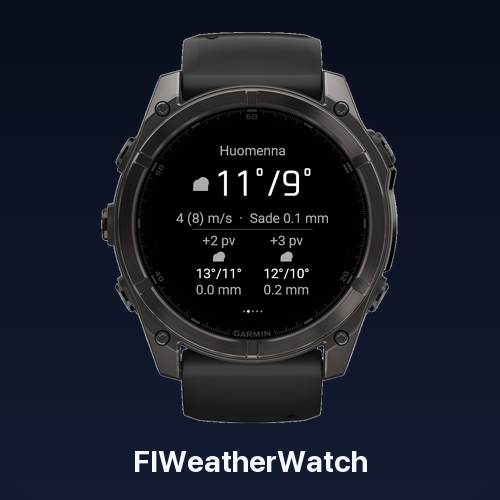
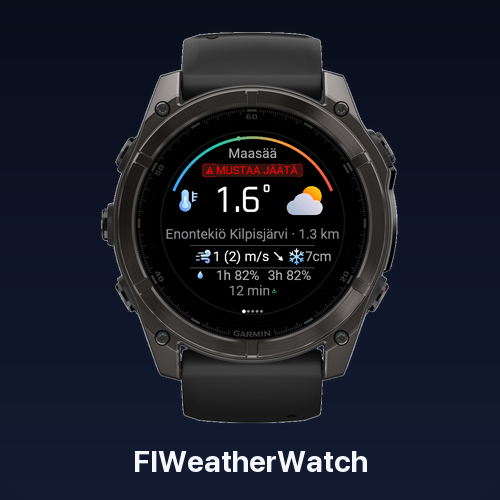
1.2.4: store listing, hero/cover art, and website updated
store-listing.md: drafted the v1.2.4 "What's new" (EN/FI), leading with the
AMOLED graphics tier and snow depth (explicitly sourced from FMI's
weather-station network).

make_store_art.py: hero/cover now read from the Land page (pg1) instead of
Forecast, since v1.2.4's headline feature lives there. Bullets updated to
lead with AMOLED graphics + snow depth. Finnish art keeps its live
black-ice warning; English has none live at capture time.

weatherapp.tallimedia.com (app/public/): version tag bumped to v1.2.4 in
all three languages, hero screenshot and the full "Every screen" gallery
(Land/Forecast/Sea/Waves/glance) swapped to new AMOLED captures. About
page screenshot not refreshed this pass — no fresh capture taken. Synced
site.js down from the live deploy first (it had drifted ahead with
2026-10-30 icon work not yet in git) before editing, so that work isn't
lost. Deployed to production.

Changed region(s): [[0.33, 0.27, 0.69, 0.63]]

diff --git a/app/public/site.js b/app/public/site.js
@@ -4,7 +4,7 @@ STR = {
   fi: {
     heroA:"Suomen sää,", heroB:"maalla ja merellä.",
     lede:"Ennusteet, merituuli ja live-aaltodata — suoraan Ilmatieteen laitoksen omasta avoimesta datasta, ei globaalista mallista. Kaikki alla on live-dataa juuri nyt. Nyt saatavilla Connect IQ -kaupassa.",
-    tagDev:"v1.2.1", tagArea:"Suomi",
+    tagDev:"v1.2.4", tagArea:"Suomi",
     navLive:"Live-data", navWhat:"Ominaisuudet", navData:"Data",
     onLand:"Maalla", onLandSub:"Havainnot ja loppupäivä lähimmältä asemalta.",
     atSea:"Merellä", atSeaSub:"Tuuli merihavaintoasemalta, aallot Ilmatieteen laitoksen poijuilta.",
@@ -65,7 +65,7 @@ STR = {
   sv: {
     heroA:"Finlands väder,", heroB:"på land och till havs.",
     lede:"Prognoser, havsvind och live-vågdata — direkt från Meteorologiska institutets egna öppna data, inte en global modell. Allt nedan är live just nu. Finns nu i Connect IQ Store.",
-    tagDev:"v1.2.1", tagArea:"Finland",
+    tagDev:"v1.2.4", tagArea:"Finland",
     navLive:"Livedata", navWhat:"Funktioner", navData:"Data",
     onLand:"På land", onLandSub:"Observationer och resten av dagen från närmaste station.",
     atSea:"Till havs", atSeaSub:"Vind från en havsstation, vågor från institutets vågbojar.",
@@ -126,7 +126,7 @@ STR = {
   en: {
     heroA:"Finnish weather,", heroB:"land and sea.",
     lede:"Forecasts, marine wind and live wave data — from the Finnish Meteorological Institute's own open data, not a global model. Everything below is live right now. Available now on the Connect IQ Store.",
-    tagDev:"v1.2.1", tagArea:"Finland",
+    tagDev:"v1.2.4", tagArea:"Finland",
     navLive:"Live data", navWhat:"Features", navData:"Data",
     onLand:"On land", onLandSub:"Current conditions and the rest of today, from the nearest reporting station.",
     atSea:"At sea", atSeaSub:"Wind from a Finnish marine station, waves from FMI's wave buoys.",
@@ -238,7 +238,11 @@ function warnLine(level, moderateKey, severeKey) {
   const moderate = level === "moderate" || level === "Moderate";
   if (!severe && !moderate) return "";
   const text = T(severe ? severeKey : moderateKey);
-  return `<p class="warn${severe ? " severe" : ""}">${WARN_ICON}${text}</p>`;
+  // Road warnings get the dedicated icy-road illustration (2026-10-30 data-
+  // metric set) instead of the generic triangle — distinguished by key,
+  // since this function doesn't otherwise know road from sea.
+  const ic = moderateKey === "IcyRoadWarning" ? metricIcon("icy_road", 18) : WARN_ICON;
+  return `<p class="warn${severe ? " severe" : ""}">${ic}${text}</p>`;
 }
 
 /* Evenly-spaced sample of at most `n` items, always including the first and
@@ -316,7 +320,7 @@ async function loadNow(place) {
                 : at(obs, "windspeedms")}</span></div>
           <div>${T("gust")}<b>${fmt(obs.windgust, 1)} m/s</b>
             <span class="at">${at(obs, "windgust")}</span></div>
-          <div>${RAIN_ICON}${T("rain")}<b>${fmt(rainNow, 1)} mm</b>
+          <div>${metricIcon("rain_amount", 14)}${T("rain")}<b>${fmt(rainNow, 1)} mm</b>
             <span class="at">${ahead.length ? localTime(ahead[0].epochtime) : "–"}</span></div>
           <div>${T("humidity")}<b>${fmt(obs.humidity, 0)}%</b>
             <span class="at">${at(obs, "humidity")}</span></div>

diff --git a/app/public/index.html b/app/public/index.html
@@ -298,7 +298,7 @@
         <span id="app-devices"></span></p>
     </div>
     <figure style="margin:0">
-      <img src="/public/shots/pg-fc-v122.png" alt="FIWeatherWatch forecast page on a Garmin fenix"
+      <img src="/public/shots/pg1-amoled-v124.png" alt="FIWeatherWatch Land page, AMOLED graphics, on a Garmin fenix"
            style="width:100%;max-width:340px;display:block;margin:0 auto">
     </figure>
   </div>
@@ -354,15 +354,15 @@
       <span style="flex:1;height:1px;background:color-mix(in srgb,#f5f8fd 26%,transparent)"></span>
     </div>
     <div style="display:grid;grid-template-columns:repeat(auto-fit,minmax(160px,1fr));gap:24px">
-      <figure style="margin:0"><div class="shot-disc"><img src="/public/shots/raw-pg1-v122.png" alt="Land page"></div>
+      <figure style="margin:0"><div class="shot-disc"><img src="/public/shots/raw-pg1-v124.png" alt="Land page, AMOLED graphics, with a live black-ice warning and snow depth"></div>
         <figcaption class="shot-cap" id="cap-land"></figcaption></figure>
-      <figure style="margin:0"><div class="shot-disc"><img src="/public/shots/raw-pg-fc-v122.png" alt="Forecast page"></div>
+      <figure style="margin:0"><div class="shot-disc"><img src="/public/shots/raw-pg-fc-v124.png" alt="Forecast page, AMOLED graphics"></div>
         <figcaption class="shot-cap" id="cap-forecast"></figcaption></figure>
-      <figure style="margin:0"><div class="shot-disc"><img src="/public/shots/raw-pg2.png?v=2" alt="Sea page with a live wind warning"></div>
+      <figure style="margin:0"><div class="shot-disc"><img src="/public/shots/raw-pg2-v124.png" alt="Sea page, AMOLED graphics, with a live wind warning"></div>
         <figcaption class="shot-cap" id="cap-sea"></figcaption></figure>
-      <figure style="margin:0"><div class="shot-disc"><img src="/public/shots/raw-pg3.png?v=2" alt="Waves page with a live wave warning"></div>
+      <figure style="margin:0"><div class="shot-disc"><img src="/public/shots/raw-pg3-v124.png" alt="Waves page, AMOLED graphics, with a live wave warning"></div>
         <figcaption class="shot-cap" id="cap-waves"></figcaption></figure>
-      <figure style="margin:0"><div class="shot-disc"><img src="/public/shots/raw-glance-v122.png" alt="Glance"></div>
+      <figure style="margin:0"><div class="shot-disc"><img src="/public/shots/raw-glance-v124.png" alt="Glance"></div>
         <figcaption class="shot-cap" id="cap-glance"></figcaption></figure>
       <figure style="margin:0"><div class="shot-disc"><img src="/public/shots/raw-pg-about.png?v=2" alt="About page"></div>
         <figcaption class="shot-cap" id="cap-about"></figcaption></figure>

diff --git a/watch/store/make_store_art.py b/watch/store/make_store_art.py
@@ -26,20 +26,24 @@ SHOTS = Path(__file__).resolve().parents[2] / "Screenshots"
 
 # Per-language art. Finnish is the store's primary listing language
 # (store-listing.md), so it gets its own hero/cover with a Finnish capture and
-# translated copy, not a relabelled English one. Both read from the Forecast
-# page since v1.2.0 — the release's headline feature belongs in the store art,
-# not just the gallery, same reasoning that put v1.1.0's live Sea warning
-# here (RESEARCH.md §16 and §27).
+# translated copy, not a relabelled English one. Read from the Land page as
+# of v1.2.4 (was Forecast through v1.2.3) — the release's headline feature
+# belongs in the store art, not just the gallery, same reasoning that put
+# v1.1.0's live Sea warning here (RESEARCH.md §16 and §27); v1.2.4's headline
+# is the AMOLED graphics tier + snow depth, both visible on Land. Finnish
+# capture keeps its live black-ice warning (Nico's call, 2026-11-06) —
+# English has none live at capture time, so it shows the plain page instead
+# of a forced one, in keeping with "a real capture, not a re-staging".
 LANGS = {
     "en": dict(
         hero=HERE / "hero-1440x720.png",
         cover=HERE / "cover-500x500.png",
-        capture=SHOTS / "pg-fc-eng.png",
+        capture=SHOTS / "pg1-amoled-eng-v124.png",
         subtitle=["Finnish weather, land and sea —", "straight from the source."],
         bullets=[
+            "New: richer graphics on AMOLED watches",
+            "New: current snow depth, from FMI's weather-station network",
             "Live observations and a 3-day forecast",
-            "Marine wind from 40 coastal and 14 lake stations",
-            "Wave height and water temperature from FMI buoys",
             "Official FMI warnings on the page they're about",
             "Your own wind, gust and wave limits",
         ],
@@ -51,12 +55,12 @@ LANGS = {
     "fi": dict(
         hero=HERE / "hero-1440x720-fi.png",
         cover=HERE / "cover-500x500-fi.png",
-        capture=SHOTS / "pg-fc-fin.png",
+        capture=SHOTS / "pg1-amoled-v124.png",
         subtitle=["Suomen sää, maalla ja merellä —", "suoraan lähteeltä."],
         bullets=[
+            "Uutta: entistä näyttävämmät grafiikat AMOLED-kelloille",
+            "Uutta: lumensyvyys Ilmatieteen laitoksen sääasemilta",
             "Reaaliaikaiset havainnot ja 3 päivän ennuste",
-            "Merituuli 40 rannikko- ja 14 sisävesiasemalta",
-            "Aallonkorkeus ja veden lämpötila FMI:n poijuilta",
             "Viralliset FMI-varoitukset sillä sivulla, jota ne koskevat",
             "Omat tuuli-, puuska- ja aaltorajasi",
         ],

diff --git a/watch/store-listing.md b/watch/store-listing.md
@@ -122,6 +122,8 @@ Suomen sää, maalla ja merellä.
 
 FIWeatherWatch näyttää sen, mitä Ilmatieteen laitoksen omat mittarit raportoivat juuri nyt.
 
+Jos pidät tästä sääapista, toivon että ehdit antaa sille hyvän arvosanan ja kommentin, kiitos!
+
 MAA
 Lämpötila ja tuuli lähimmältä havaintoasemalta, asema ja sen etäisyys näkyvissä. Sateen todennäköisyys seuraavalle tunnille ja kolmelle tunnille. Jos asemalla ei ole tuulianturia tai lämpömittaria, lukema haetaan lähimmältä asemalta ja merkitään sen mukaan. Liukkaan tien varoitus näkyy samalla sivulla, kun Ilmatieteen laitos sellaisen antaa.
 
@@ -257,11 +259,14 @@ history, newest first. Each paragraph below is deliberately one single unbroken 
 the Store textarea does not re-wrap pasted text, so a hard line break inside a paragraph
 shows up as a forced break. Only the blank lines between versions are real breaks. For
 the next release: write the new version's paragraph and prepend it. Keep each language
-under 4000 characters (these are about 2606 EN / 2700 FI).
+under 4000 characters (these are about 3000 EN / 3098 FI).
 
 ### Paste into Store — English
 
 ```
+v1.2.4
+Richer graphics on AMOLED watches — a gradient temperature gauge, full-colour weather icons and a redesigned Land, Sea, Waves, Forecast and About page; MIP watches keep the existing look unchanged. Added current snow depth to the Land page, from the same FMI weather-station network as the rest of the page's readings, shown whenever a station is actually reporting snow on the ground.
+
 v1.2.3
 Removed support for the Garmin Enduro (original) after finding it could crash on launch; Enduro 3 and Enduro 4 are unaffected. Added support for the Venu X1, Instinct 3 AMOLED (45mm and 50mm), Instinct Crossover AMOLED, Marq 3, D2 Mach 2, D2 Mach 2 Pro and D2 Air X10. Added two Sea stations: Kaskinen Sälgrund and Kotka Haapasaari.
 
@@ -284,6 +289,9 @@ First public release. Land forecast and current conditions from the nearest repo
 ### Paste into Store — Finnish
 
 ```
+v1.2.4
+Entistä näyttävämmät grafiikat AMOLED-kelloille — liukuväriasteikko lämpötilalle, täysvärikuvakkeet ja uudistettu Maa-, Meri-, Aallot-, Ennuste- ja Tietoja-sivu; MIP-kellot säilyttävät nykyisen ulkoasun ennallaan. Maa-sivulle lisätty ajantasainen lumensyvyys samalta Ilmatieteen laitoksen sääasemaverkolta kuin sivun muutkin lukemat, näkyvissä aina kun asema ilmoittaa lunta olevan maassa.
+
 v1.2.3
 Poistettu tuki Garmin Enduro (alkuperäinen) -kellolta, koska sovellus saattoi kaatua sitä käynnistettäessä; Enduro 3 ja Enduro 4 toimivat normaalisti. Tuki lisätty Garmin Venu X1-, Instinct 3 AMOLED (45 mm ja 50 mm)-, Instinct Crossover AMOLED-, Marq 3-, D2 Mach 2-, D2 Mach 2 Pro- ja D2 Air X10 -kelloille. Lisätty kaksi uutta merisääasemaa: Kaskinen Sälgrund ja Kotka Haapasaari.
 
@@ -306,6 +314,35 @@ Ensimmäinen julkinen versio. Ennuste ja nykyhetken sää lähimmältä havainto
 ---
 
 ## Per-version notes (reference — the blocks above are what gets pasted)
+
+## What's new — v1.2.4
+
+**Leads with the AMOLED graphics tier** — the headline feature of this release, and
+the thing the hero/cover art now shows instead of the Forecast page. Snow depth is
+the second new thing, explicitly sourced (FMI's weather-station network) since
+the app already surfaces two other sources of winter data (road-ice risk from
+Fintraffic's road stations, precipitation-phase snow from the forecast) and this
+is neither of those.
+
+**Finnish:**
+
+```
+Uudet grafiikat AMOLED-kelloille ja lumensyvyys.
+
+• Entistä näyttävämmät grafiikat AMOLED-kelloille — liukuväriasteikot ja täysvärikuvakkeet Maa-, Meri-, Aallot-, Ennuste- ja Tietoja-sivuilla; MIP-kellojen ulkoasu ennallaan
+• Lumensyvyys Maa-sivulle, Ilmatieteen laitoksen sääasemaverkolta
+```
+
+**English:**
+
+```
+New AMOLED graphics and snow depth.
+
+• Richer graphics on AMOLED watches — gradient gauges and full-colour icons on Land, Sea, Waves, Forecast and About; MIP watches unchanged
+• Snow depth added to the Land page, from FMI's weather-station network
+```
+
+---
 
 ## What's new — v1.2.3
 
